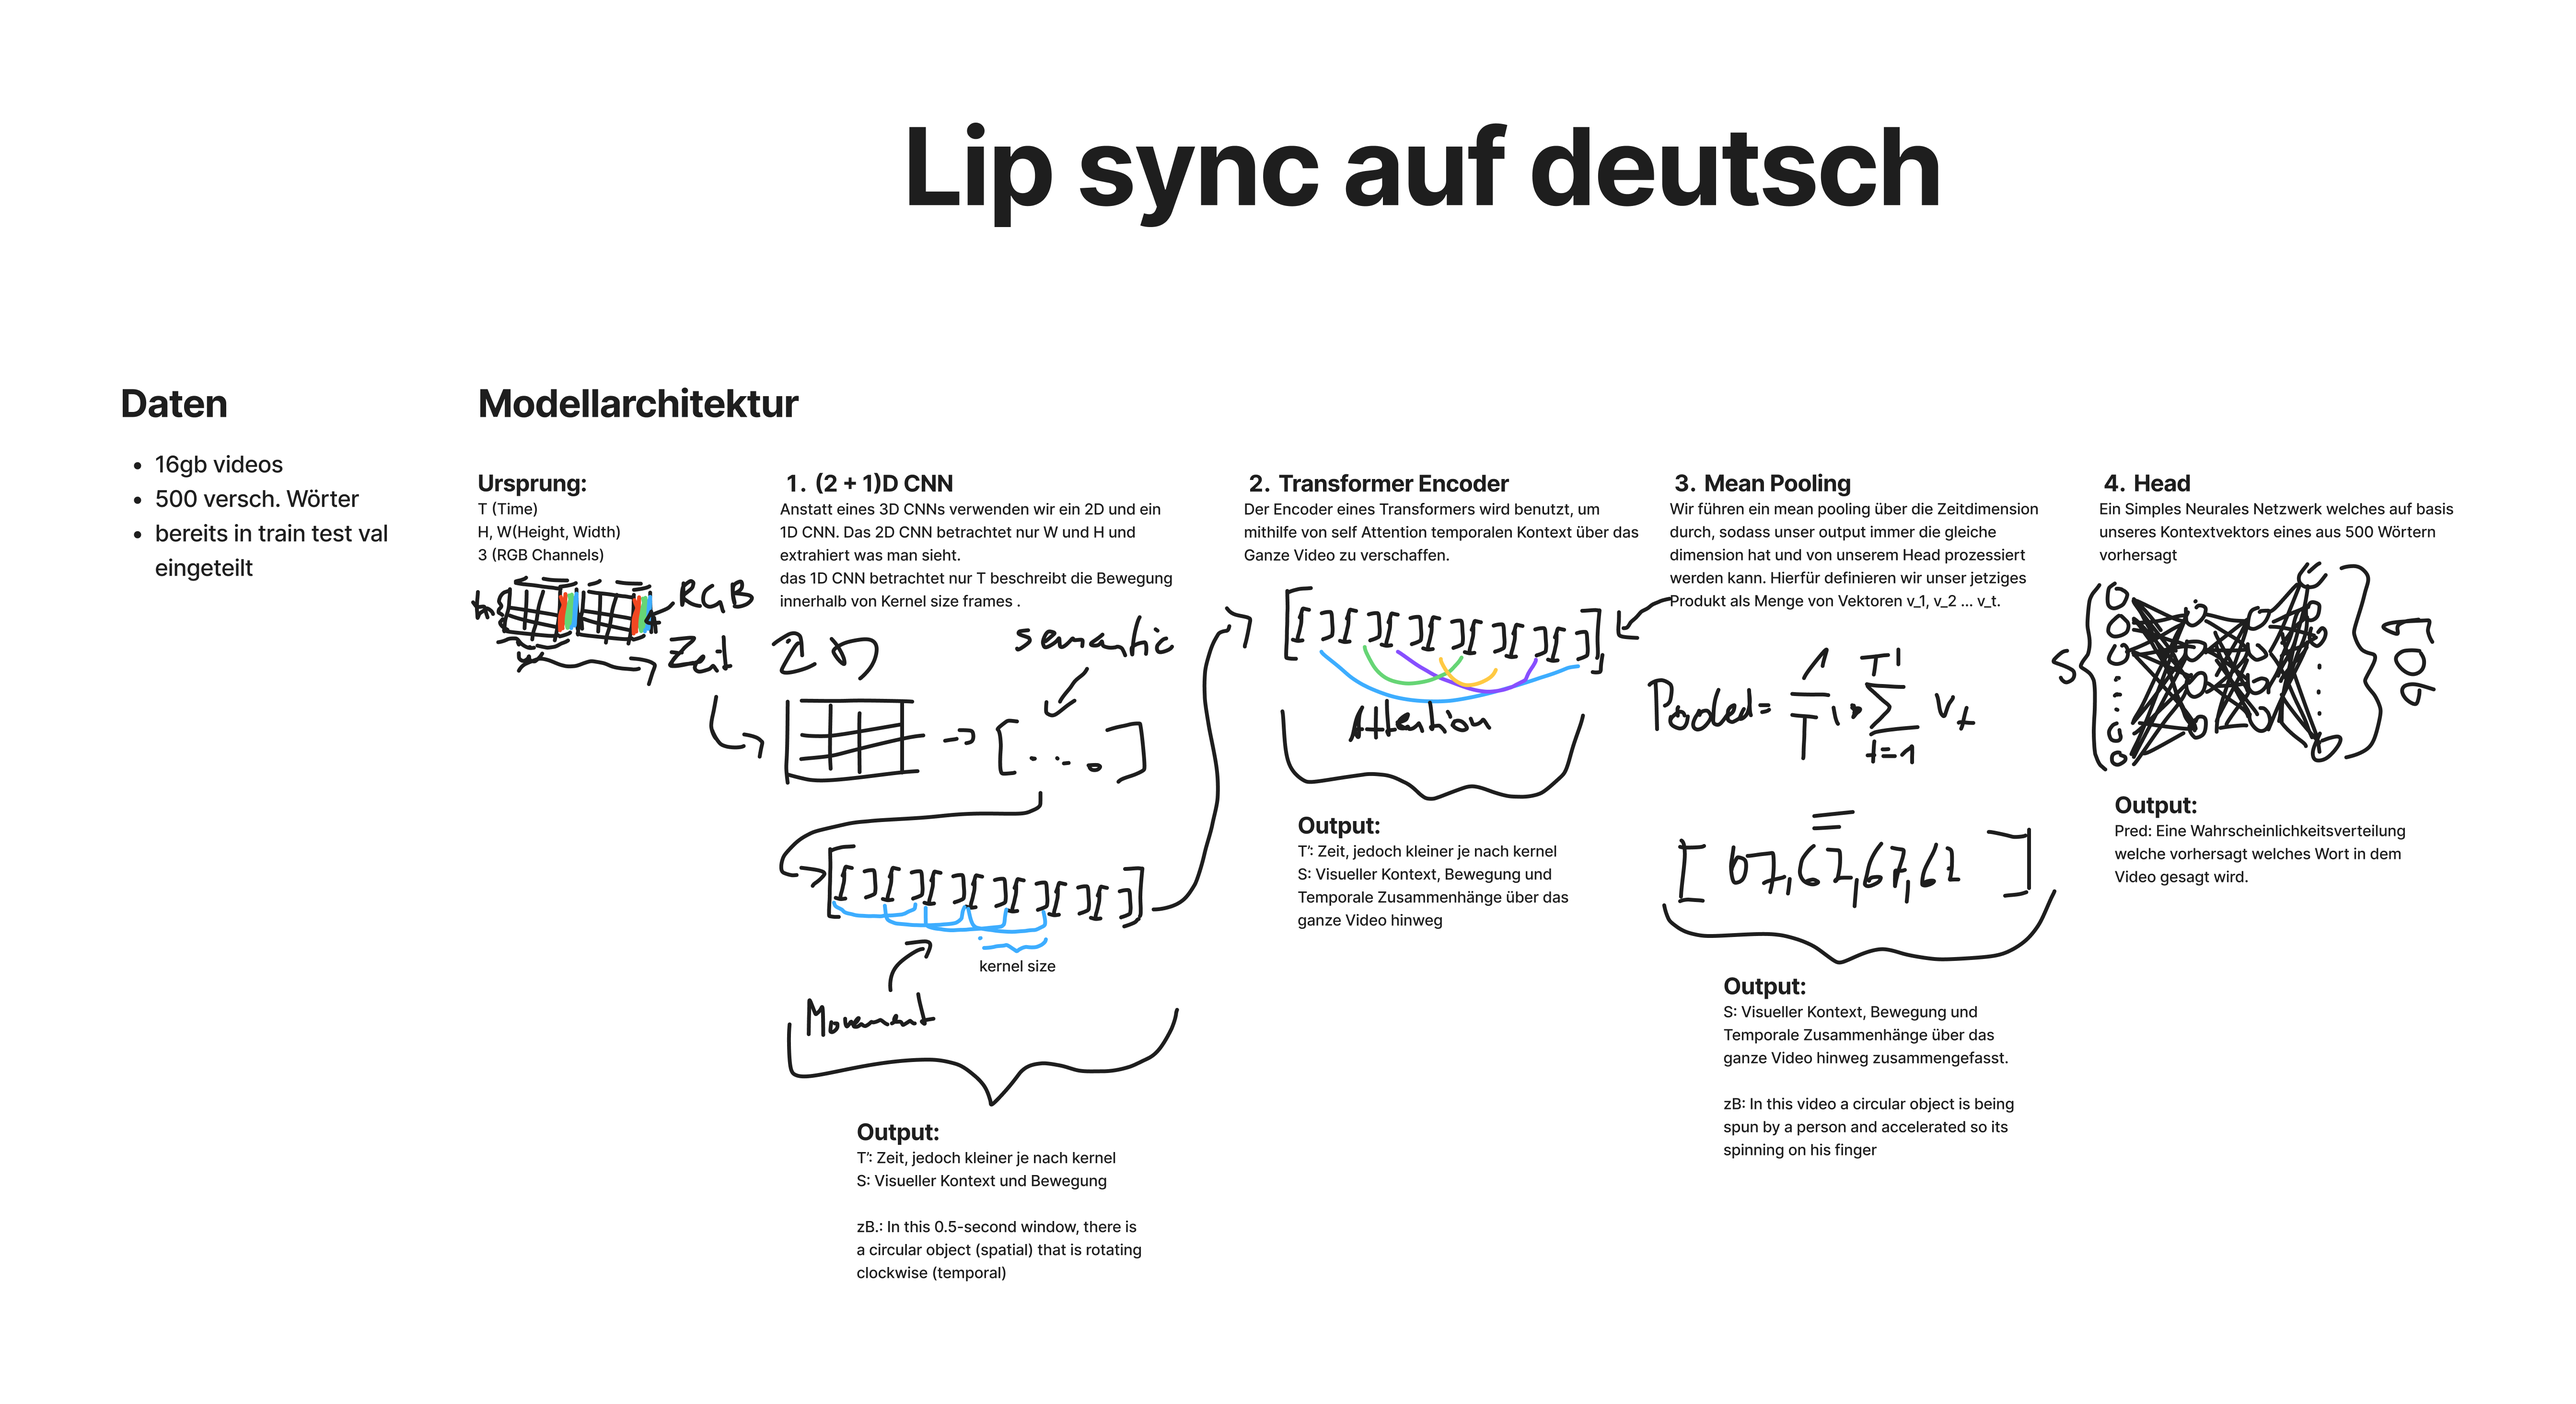
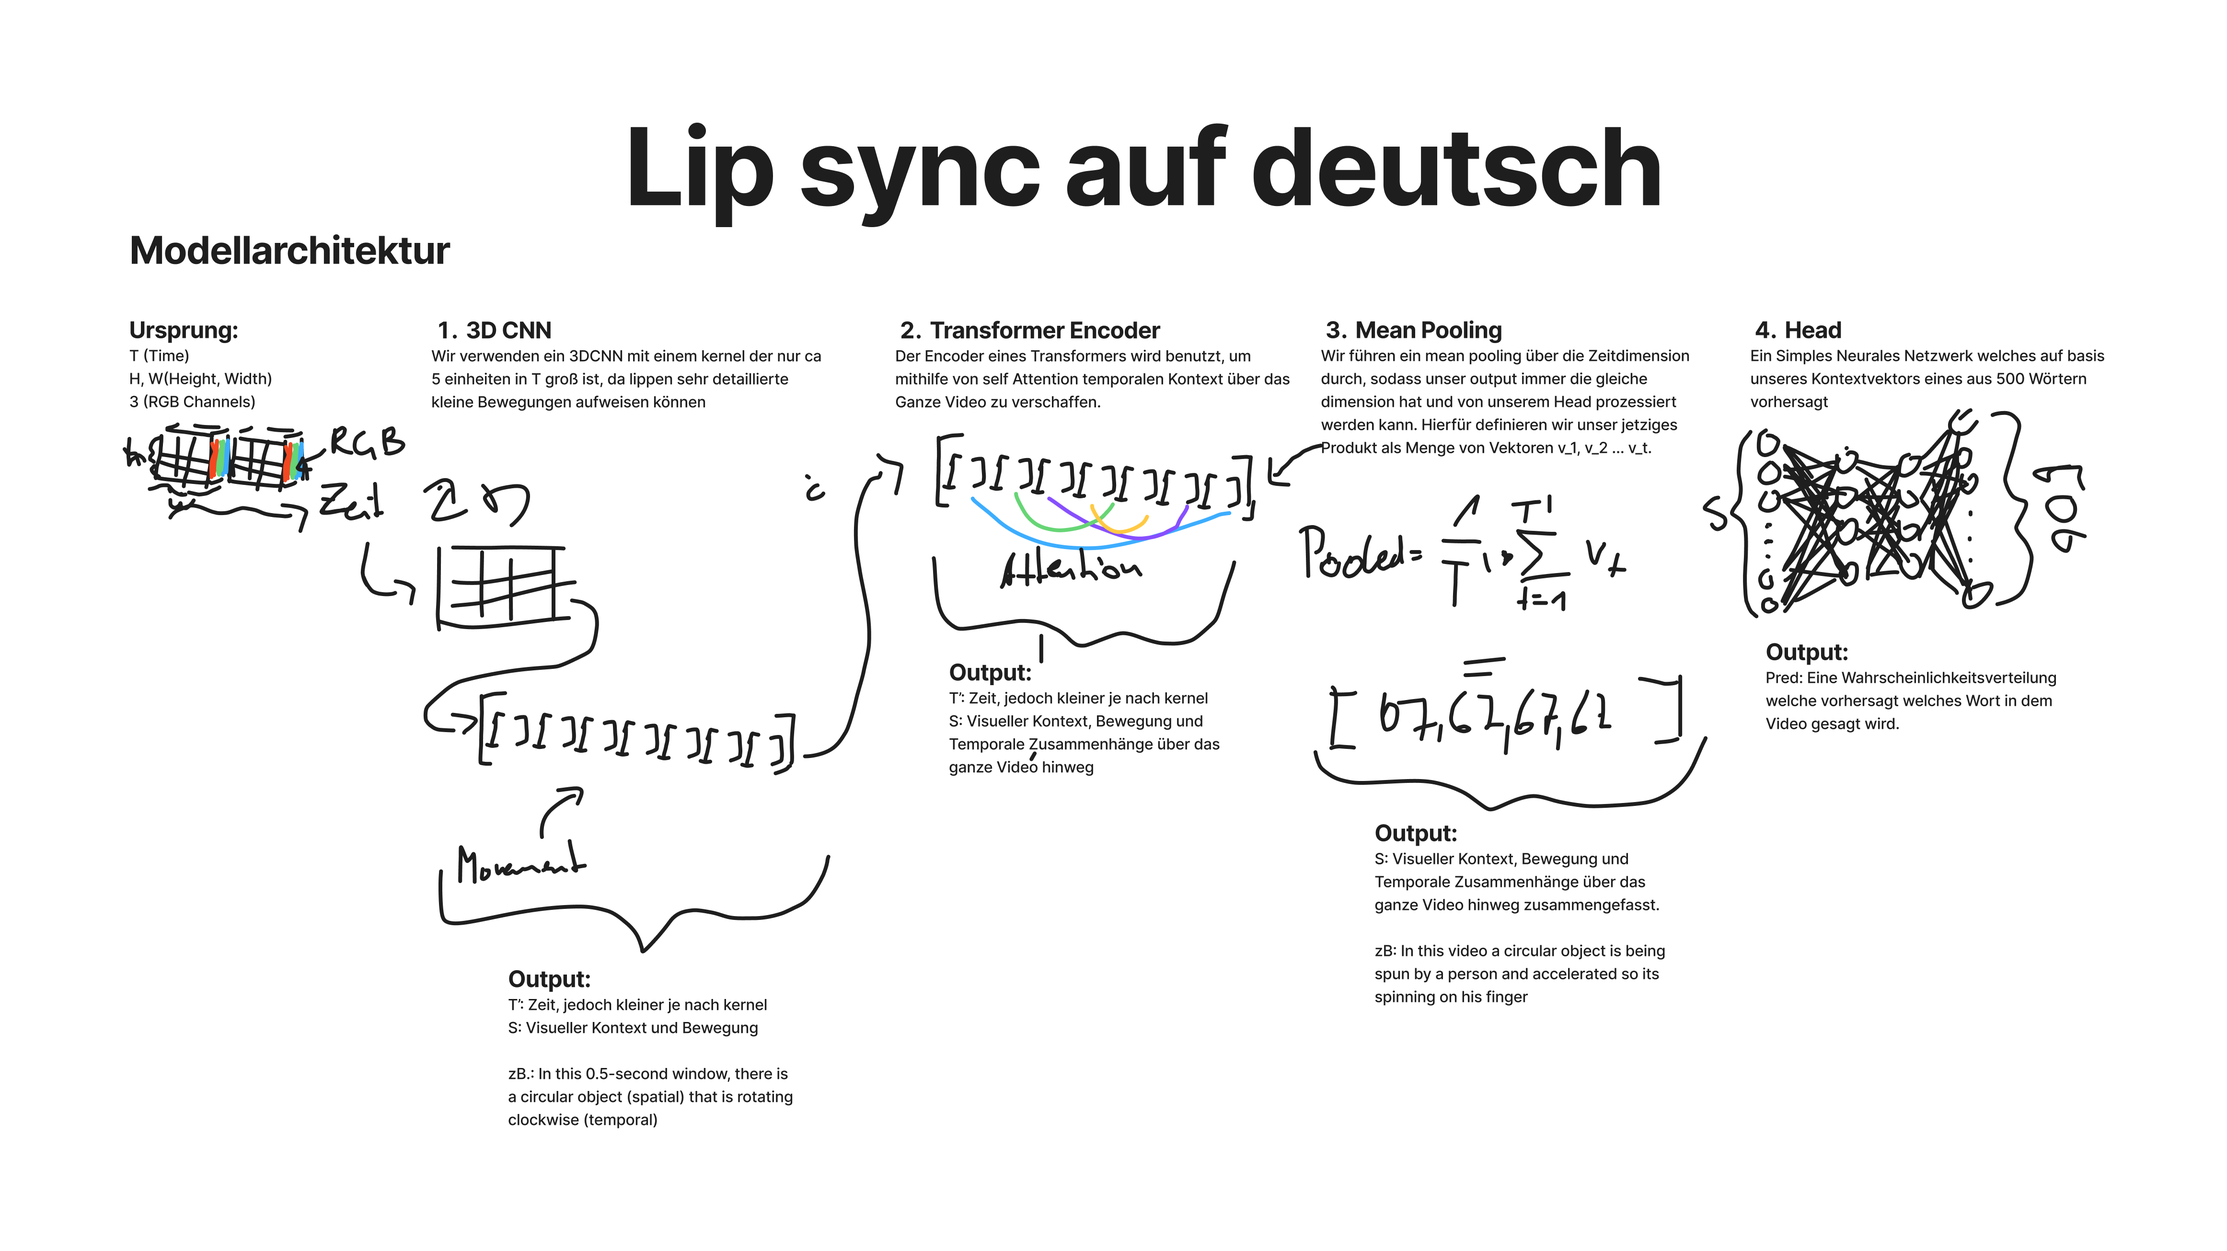
analyse

diff --git a/README.md b/README.md
@@ -1,5 +1,46 @@
-# Lipread Deutsch
-![pstaykov’s board.png](pstaykov%E2%80%99s%20board.png)
-1. Title of dataset: GLips
-2. Authors & paper: http://arxiv.org/abs/2202.13403
-3. Source of dataset: Hessian Parliament (https://hessischer-landtag.de)
+# Lipread Deutsch - GLips Architektur
+
+Dieses Projekt implementiert eine Lipreading-Pipeline basierend auf dem GLips-Datensatz. Das Modell nutzt eine Kombination aus räumlich-zeitlicher Merkmalsextraktion und Transformer-basierten Sequenz-Modellierung.
+
+## Pflichinformationen zum Datensatz
+1. **Title of dataset:** GLips
+2. **Authors & paper:** [Visual Speech Recognition for German (2022)](http://arxiv.org/abs/2202.13403)
+3. **Source of dataset:** Hessian Parliament (https://hessischer-landtag.de)
+
+---
+
+## Modellarchitektur
+
+### 1. Input
+Die Eingabe besteht aus Graustufen- oder RGB-Videoframes, die auf die Lippenregion zugeschnitten sind.
+* **Format:** $(B, C, T, H, W)$
+    * $B$: Batch-Größe
+    * $C$: 3 (RGB-Kanäle)
+    * $T$: Anzahl der Frames (Zeitachse)
+    * $H, W$: 96 x 96 (Höhe und Breite)
+
+### 2. Spatio-Temporal Front-End (3D CNN + ResNet)
+Da Lippenbewegungen sowohl eine zeitliche als auch eine präzise räumliche Komponente haben, besteht das Front-End aus zwei Teilen:
+* **3D CNN:** Ein initialer 3D-Kernel (z. B. $5 \times 7 \times 7$) extrahiert kurzzeitige Bewegungsmerkmale direkt aus der Frame-Abfolge.
+* **ResNet-18:** Ein 2D-ResNet fungiert als Feature-Extractor. Es verarbeitet die Zeitdimension Frame für Frame (oder über die 3D-Features), um hochdimensionale visuelle Merkmale zu extrahieren.
+* **Output:** $V = (D, T')$, wobei $D$ (z. B. 512) die Merkmalsdimension pro Frame ist.
+
+### 3. Transformer Encoder
+Transformer modellieren die Zusammenhänge über das gesamte Wort hinweg. Durch Self-Attention lernt das Modell, welche Phasen der Lippenbewegung für die Unterscheidung der 500 Wörter entscheidend sind.
+* **Output:** $V = (D, T')$ (Kontextualisierte Repräsentationen).
+
+### 4. Mean Pooling
+Um die Informationen der gesamten Sequenz zu aggregieren, wird der Mittelwert über die Zeitachse $T'$ berechnet:
+$$\frac{1}{T'} \sum_{t=1}^{T'} V_t = \bar{V}$$
+* **Output:** Ein fixer Merkmalsvektor $V = (D)$.
+
+### 5. Classification Head (Neural Network)
+Ein abschließendes Fully-Connected-Netzwerk projiziert den Vektor auf die Anzahl der Zielklassen.
+* **Output:** $V = (500)$ (Logits für die Wort-Klassifizierung).
+
+---
+
+## Pipeline Visualisierung
+Die Architektur folgt dem Prinzip: **Lokale Bewegung (3D-CNN) $\rightarrow$ Visuelle Details (ResNet) $\rightarrow$ Globaler Kontext (Transformer).**
+
+![Modell Übersicht](pstaykov%E2%80%99s%20board.png)
